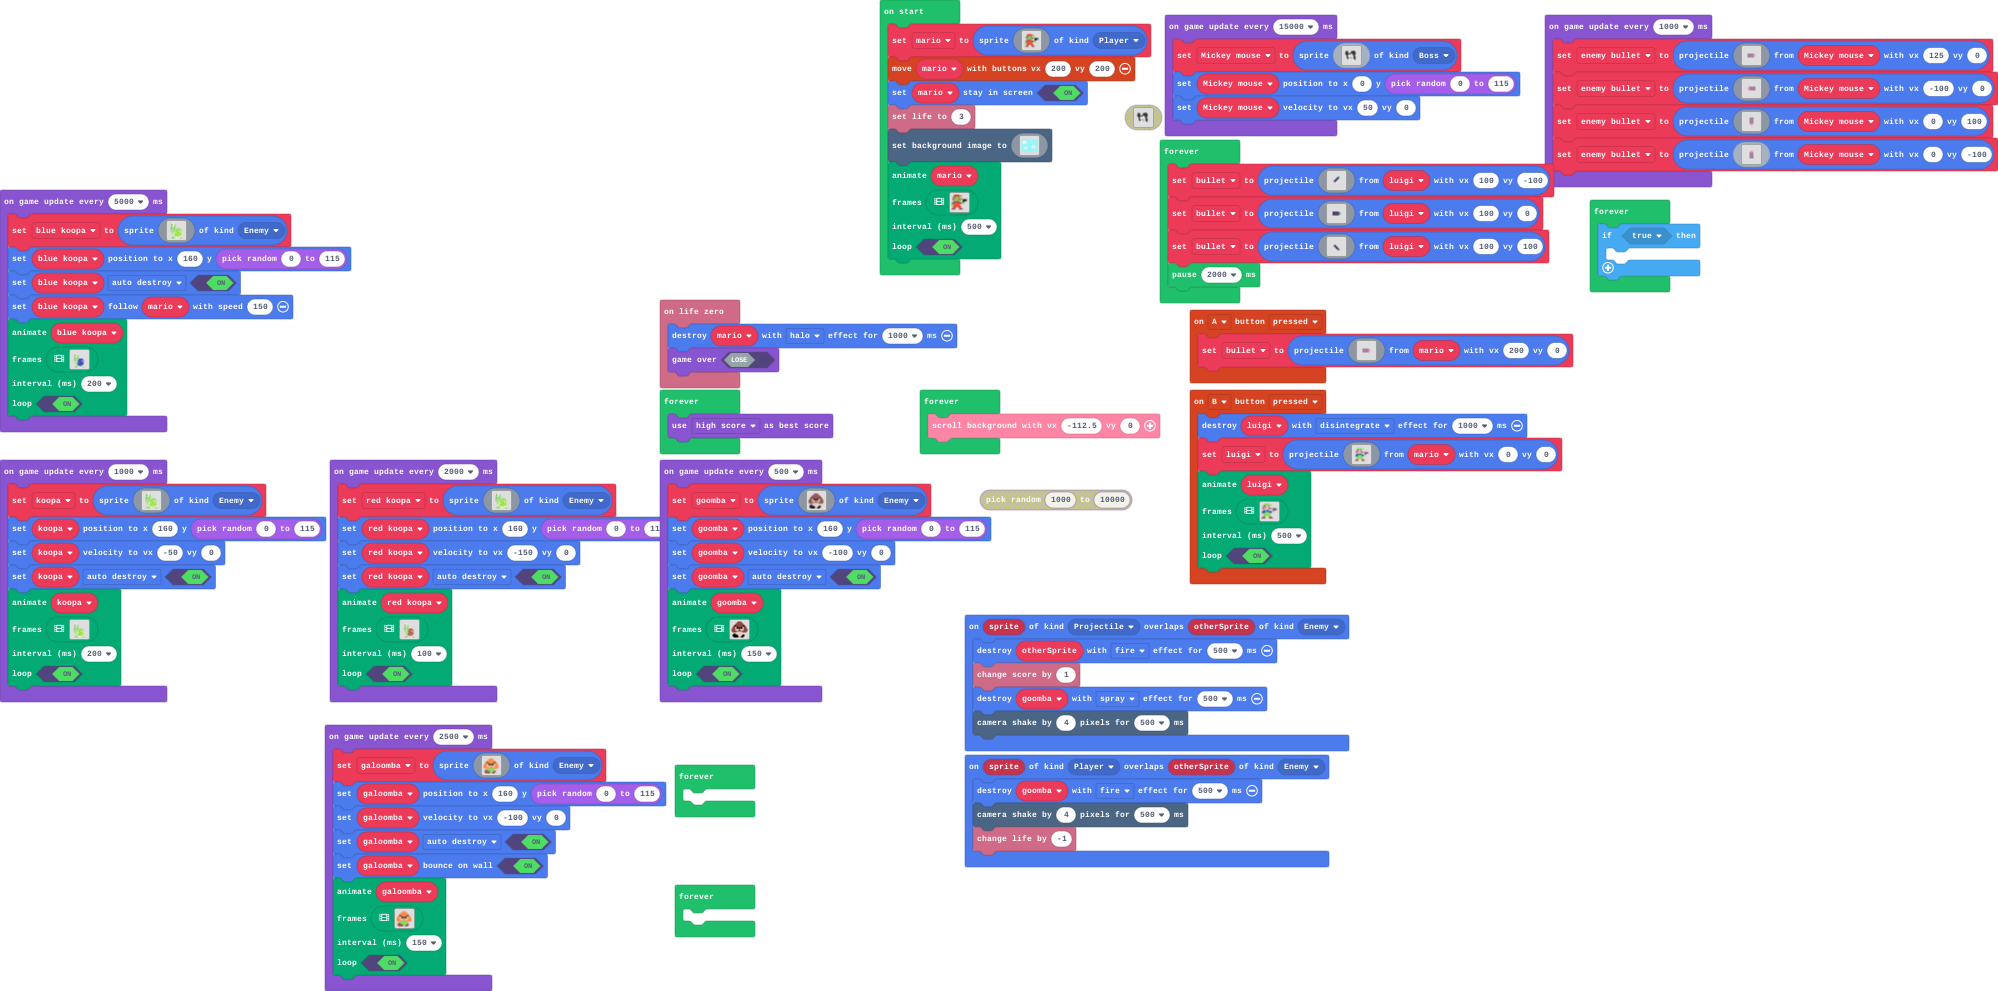
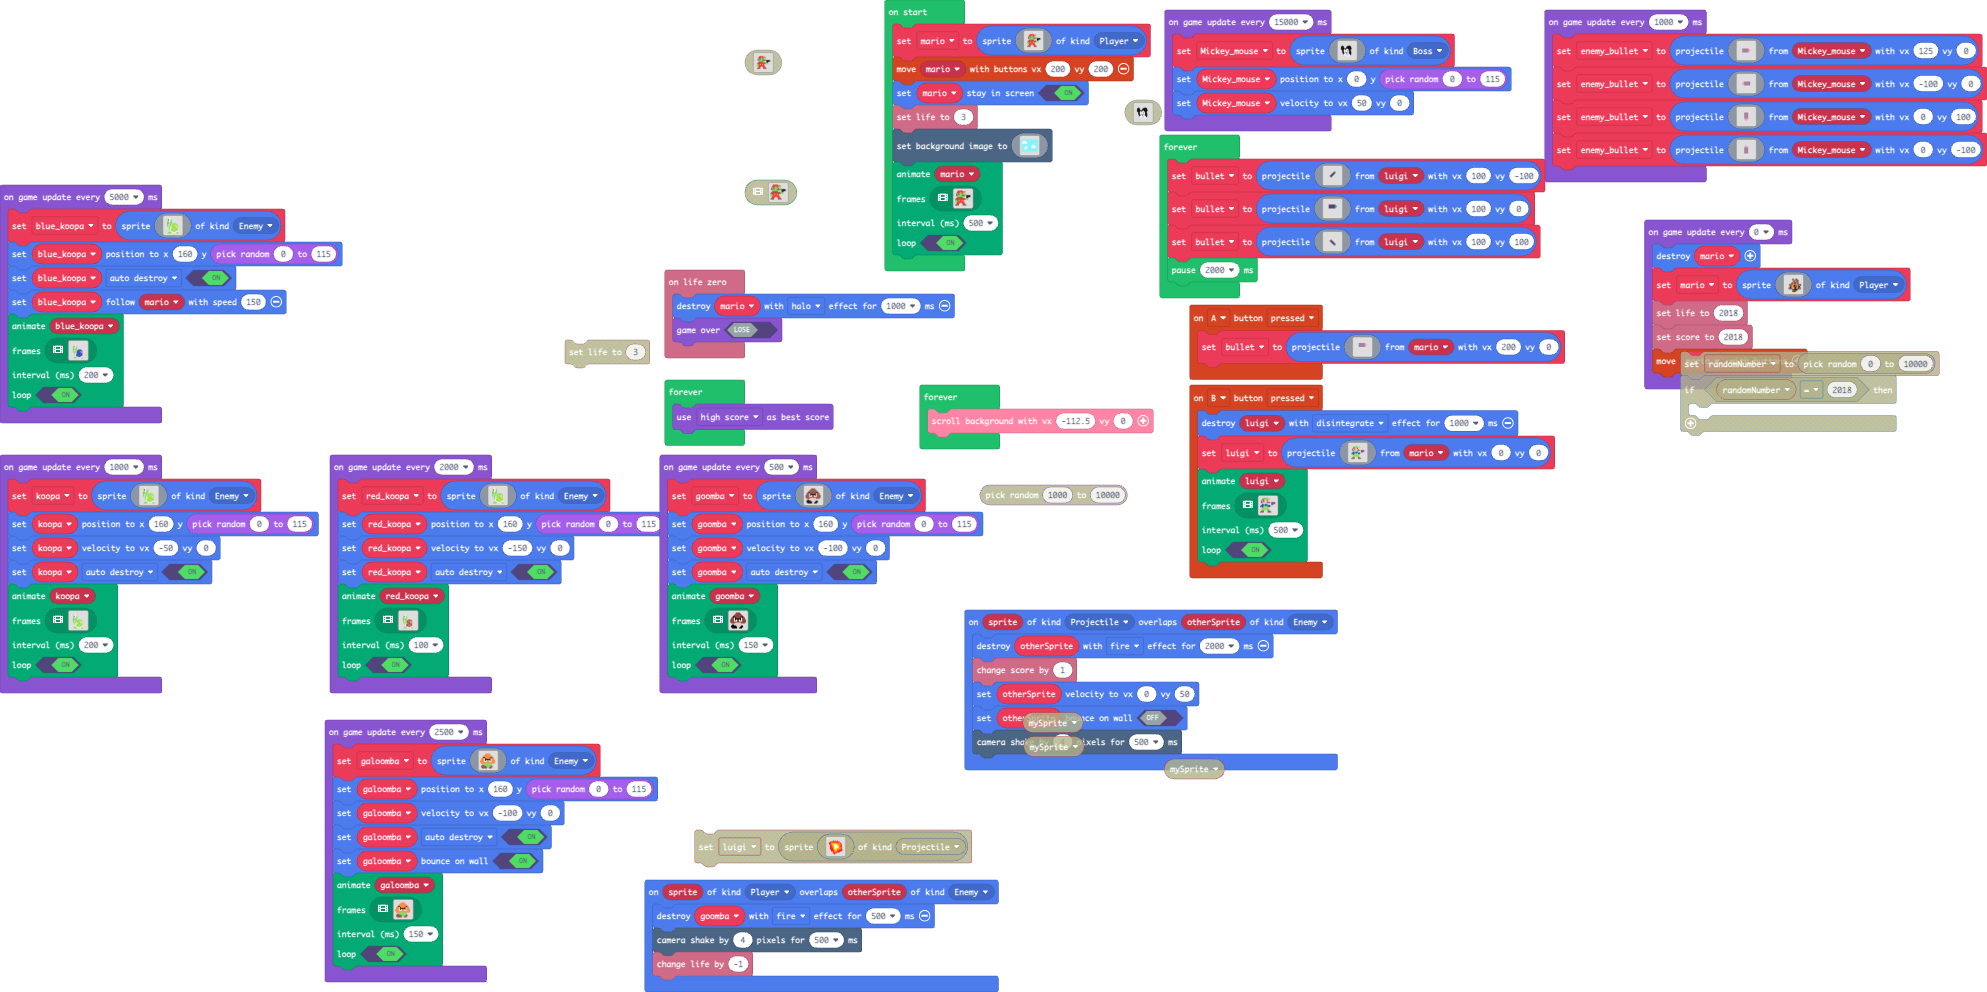
Update main.blocks, main.ts, images.g.jres, images.g.ts

Changed region(s): [[0.0, 0.0, 1.0, 1.0], [0.3744, 0.0303, 0.4056, 0.0908], [0.3744, 0.1816, 0.4056, 0.2119]]

diff --git a/images.g.ts b/images.g.ts
@@ -394,25 +394,6 @@ namespace myImages {
 . . . . . . . . . . . . . . . . 
 . . . . . . . . . . . . . . . . 
 `;
-            case "H[9J@2qLSKqu/n7gX7dE":
-            case "luigi bullet":return img`
-. . . . . . . . . . . . . . . . 
-. . . . . . . . . . . . . . . . 
-. . . . . . . . . . . . . . . . 
-. . . . . . . . . . . . . . . . 
-. . . . . . . . . . . . . . . . 
-. . . . . . . . . . . . . . . . 
-. . . . c c c c c c 6 . . . . . 
-. . . . c c c c c c 6 6 . . . . 
-. . . . c c c c c c 6 6 . . . . 
-. . . . c c c c c c 6 . . . . . 
-. . . . . . . . . . . . . . . . 
-. . . . . . . . . . . . . . . . 
-. . . . . . . . . . . . . . . . 
-. . . . . . . . . . . . . . . . 
-. . . . . . . . . . . . . . . . 
-. . . . . . . . . . . . . . . . 
-`;
             case "(X*ZEJP^*p{xWVX:X@2;":
             case "luigi bullet down":return img`
 . . . . . . . . . . . . . . . . 
@@ -427,25 +408,6 @@ namespace myImages {
 . . . . . . . c c c . . . . . . 
 . . . . . . . . c c 6 . . . . . 
 . . . . . . . . . 6 6 . . . . . 
-. . . . . . . . . . . . . . . . 
-. . . . . . . . . . . . . . . . 
-. . . . . . . . . . . . . . . . 
-. . . . . . . . . . . . . . . . 
-`;
-            case "CO[gCxJc5f*sD?KQl|n6":
-            case "mario bullet":return img`
-. . . . . . . . . . . . . . . . 
-. . . . . . . . . . . . . . . . 
-. . . . . . . . . . . . . . . . 
-. . . . . . . . . . . . . . . . 
-. . . . . . . . . . . . . . . . 
-. . . . . . . . . . . . . . . . 
-. . . . b b b b b b 3 . . . . . 
-. . . . b b b b b b 3 3 . . . . 
-. . . . b b b b b b 3 3 . . . . 
-. . . . b b b b b b 3 . . . . . 
-. . . . . . . . . . . . . . . . 
-. . . . . . . . . . . . . . . . 
 . . . . . . . . . . . . . . . . 
 . . . . . . . . . . . . . . . . 
 . . . . . . . . . . . . . . . . 
@@ -513,6 +475,77 @@ e e e e e e e e e e e e e e e e
 . e e e e e 7 7 7 7 7 e e . . . 
 . e e e e e e 7 7 7 e e e . . . 
 . . e e e e e . . e e e . . . . 
+`;
+            case "CO[gCxJc5f*sD?KQl|n6":
+            case "mario bullet":return img`
+. . . . . . . . . . . . . . . . 
+. . . . . . . . . . . . . . . . 
+. . . . . . . . . . . . . . . . 
+. . . . . . . . . . . . . . . . 
+. . . . b b b b b b 3 . . . . . 
+. . . . b b b b b b 3 3 . . . . 
+. . . . b b b b b b 3 3 . . . . 
+. . . . b b b b b b 3 . . . . . 
+. . . . . . . . . . . . . . . . 
+. . . . . . . . . . . . . . . . 
+. . . . . . . . . . . . . . . . 
+. . . . . . . . . . . . . . . . 
+. . . . . . . . . . . . . . . . 
+. . . . . . . . . . . . . . . . 
+. . . . . . . . . . . . . . . . 
+. . . . . . . . . . . . . . . . 
+`;
+            case "H[9J@2qLSKqu/n7gX7dE":
+            case "luigi bullet":return img`
+. . . . . . . . . . . . . . . . 
+. . . . . . . . . . . . . . . . 
+. . . . . . . . . . . . . . . . 
+. . . . . . . . . . . . . . . . 
+. . . . c c c c c c 6 . . . . . 
+. . . . c c c c c c 6 6 . . . . 
+. . . . c c c c c c 6 6 . . . . 
+. . . . c c c c c c 6 . . . . . 
+. . . . . . . . . . . . . . . . 
+. . . . . . . . . . . . . . . . 
+. . . . . . . . . . . . . . . . 
+. . . . . . . . . . . . . . . . 
+. . . . . . . . . . . . . . . . 
+. . . . . . . . . . . . . . . . 
+. . . . . . . . . . . . . . . . 
+. . . . . . . . . . . . . . . . 
+`;
+            case "image3":
+            case "Morpho":return img`
+..............................
+..............................
+..............................
+..............................
+.............ff....ff.........
+.............f4f...f4f........
+.............f44f..f44f.......
+..............f44f..f44f......
+..............f44f..f44f......
+..............f44f..f44f......
+..............f44f..f44f......
+............ff444fff444f......
+...........f4f444f4f444f......
+..........f4f444f4f444f4f.....
+.......f..f4f444f4f444f4f...f.
+.......ffff4444444444444fffff.
+.......f44f44444fffff444f444f.
+........f4f4444fff1f1f44f44f..
+.........ff4444fff1f1f44fff...
+.........ff44444fffff444f8f...
+.......ffff444444fff4444f8ff..
+......fddff444444fff4444ffddf.
+......fddff444444fff4444ffddf.
+.......ff..f44444fff444f..ff..
+............fffffffffff.......
+..............ffffffff........
+.............ff44f44f.........
+.............f44f44f..........
+.............ffffff...........
+..............................
 `;
         }
         return null;
@@ -657,60 +690,6 @@ e e e e 2 2 2 2 e e e 7 7 7 . . .
 . . 2 2 2 . . 2 2 2 . . . . . . . 
 . e e e . . . . e e e . . . . . . 
 e e e e . . . . e e e e . . . . . 
-`];
-            case "blue koopa walk":
-            case ";_$^D^{~a:YgY/08GADa":return [img`
-................
-................
-................
-...1............
-..111...........
-.7e117..........
-.7e1177.........
-.7e1177.........
-.711177.........
-7771777.........
-7e77777.........
-777.77..88888...
-77..77.8a888a8..
-77..77.88a8a888.
-77.7718888a8118.
-.7.771888a8a818.
-...771a8a888a8a.
-..77118a88888a8.
-...718a8a888a8a.
-...71a888a8a888.
-....188888a8888.
-....11888a8a8111
-...77111a88811..
-..7777711111177.
-.77777.......777
-`, img`
-................
-................
-...1............
-..111...........
-.7e117..........
-.7e117..........
-.7e1177.........
-.711177.........
-7771777.........
-7e77777.........
-777.777.........
-77..77..88888...
-77..77.8a888a8..
-77..77.88a8a888.
-.7.7718888a8118.
-...771888a8a818.
-...771a8a888a8a.
-..77118a88888a8.
-...718a8a888a8a.
-...71a888a8a888.
-....188888a8888.
-....11888a8a8111
-.....711a88811..
-....7777111177..
-....77777..777..
 `];
             case "luigi blink":
             case "dIH~yl6%wSA@)Gh*3[H":return [img`
@@ -993,6 +972,60 @@ e e e e e e e e e e e e e e e e
 . . . f f d d d d d f f f f f . 
 . . . f f f d d d f f f f f f . 
 . . . . f f f . . f f f f f . . 
+`];
+            case "blue koopa walk":
+            case ";_$^D^{~a:YgY/08GADa":return [img`
+................
+................
+................
+...1............
+..111...........
+.7e117..........
+.7e1177.........
+.7e1177.........
+.711177.........
+7771777.........
+7e77777.........
+777.77..88888...
+77..77.8a888a8..
+77..77.88a8a888.
+77.7718888a8118.
+.7.771888a8a818.
+...771a8a888a8a.
+..77118a88888a8.
+...718a8a888a8a.
+...71a888a8a888.
+....188888a8888.
+....11888a8a8111
+...77111a88811..
+..7777711111177.
+.77777.......777
+`, img`
+................
+................
+...1............
+..111...........
+.7e117..........
+.7e117..........
+.7e1177.........
+.711177.........
+7771777.........
+7e77777.........
+777.777.........
+77..77..88888...
+77..77.8a888a8..
+77..77.88a8a888.
+.7.7718888a8118.
+...771888a8a818.
+...771a8a888a8a.
+..77118a88888a8.
+...718a8a888a8a.
+...71a888a8a888.
+....188888a8888.
+....11888a8a8111
+.....711a88811..
+....7777111177..
+....77777..777..
 `];
         }
         return null;

diff --git a/main.ts b/main.ts
@@ -19,9 +19,10 @@ info.onLifeZero(function () {
     game.gameOver(false)
 })
 sprites.onOverlap(SpriteKind.Projectile, SpriteKind.Enemy, function (sprite, otherSprite) {
-    otherSprite.destroy(effects.fire, 500)
+    otherSprite.destroy(effects.fire, 2000)
     info.changeScoreBy(1)
-    goomba.destroy(effects.spray, 500)
+    otherSprite.setVelocity(0, 50)
+    otherSprite.setBounceOnWall(false)
     scene.cameraShake(4, 500)
 })
 sprites.onOverlap(SpriteKind.Player, SpriteKind.Enemy, function (sprite, otherSprite) {
@@ -153,21 +154,10 @@ forever(function () {
     pause(2000)
 })
 forever(function () {
-    if (true) {
-    	
-    }
-})
-forever(function () {
     game.setGameOverScoringType(game.ScoringType.HighScore)
 })
 forever(function () {
     scroller.scrollBackgroundWithSpeed(-112.5, 0)
-})
-forever(function () {
-	
-})
-forever(function () {
-	
 })
 game.onUpdateInterval(500, function () {
     goomba = sprites.create(assets.image`goomba`, SpriteKind.Enemy)
@@ -180,4 +170,11 @@ game.onUpdateInterval(500, function () {
     150,
     true
     )
+})
+game.onUpdateInterval(0, function () {
+    sprites.destroy(mario)
+    mario = sprites.create(assets.image`Morpho`, SpriteKind.Player)
+    info.setLife(2018)
+    info.setScore(2018)
+    controller.moveSprite(mario)
 })
